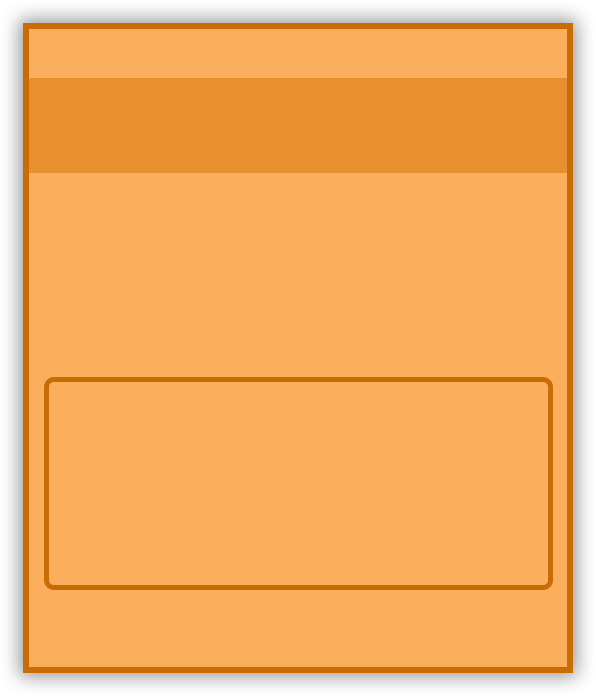
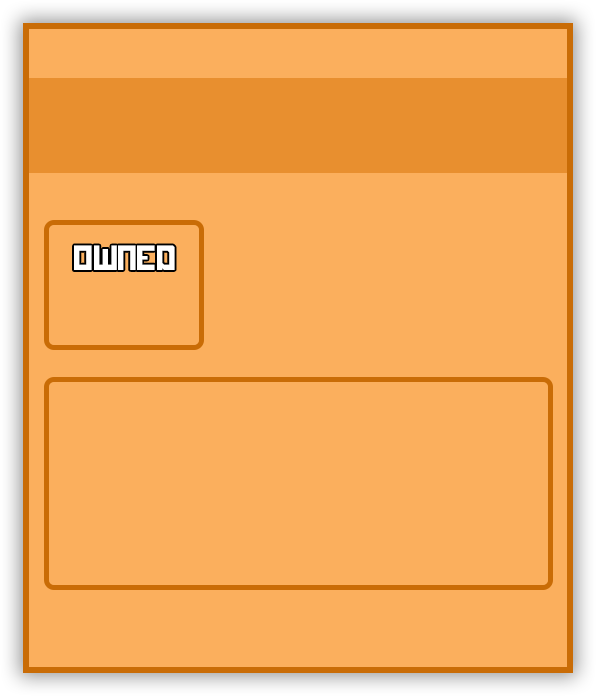
no message

Changed region(s): [[0.0604, 0.3017, 0.3624, 0.5129]]

diff --git a/core/src/com/nahroto/fruitdestroyer/huds/powerupoverlays/PowerupOverlay.java b/core/src/com/nahroto/fruitdestroyer/huds/powerupoverlays/PowerupOverlay.java
@@ -21,6 +21,9 @@ public class PowerupOverlay
     private Vector2 position;
 
     private Image background;
+    private Image title;
+    private Image checkedBox;
+    private Image uncheckedBox;
     private ImageButton exitButton;
     private ImageButton powerupButton;
     private Label costLabel;
@@ -34,6 +37,8 @@ public class PowerupOverlay
         actors = new Array<Actor>();
         position = new Vector2();
         background = new Image(gameScreenAtlas.findRegion("powerupDescBG"));
+        checkedBox = new Image(gameScreenAtlas.findRegion("checked"));
+        uncheckedBox = new Image(gameScreenAtlas.findRegion("unchecked"));
         exitButton = new ImageButton(new TextureRegionDrawable(gameScreenAtlas.findRegion("exitButton")));
         exitButton.addListener(new ClickListener()
         {
@@ -47,9 +52,12 @@ public class PowerupOverlay
             }
         });
         descriptionLabel = new Label(description, new Label.LabelStyle(new Font("fonts/trompus.otf", 30, Color.WHITE, Color.BLACK, 2, true).getFont(), Color.WHITE));
-        costLabel = new Label("Price: " + cost.toString() + " points.", new Label.LabelStyle(new Font("fonts/trompus.otf", 40, Color.WHITE, Color.BLACK, 2, true).getFont(), Color.YELLOW));
-
+        if (cost == 1)
+            costLabel = new Label("Price: " + cost.toString() + " point", new Label.LabelStyle(new Font("fonts/trompus.otf", 40, Color.WHITE, Color.BLACK, 2, true).getFont(), Color.YELLOW));
+        else
+            costLabel = new Label("Price: " + cost.toString() + " points", new Label.LabelStyle(new Font("fonts/trompus.otf", 40, Color.WHITE, Color.BLACK, 2, true).getFont(), Color.YELLOW));
         actors.add(background);
+        actors.add(uncheckedBox);
         actors.add(costLabel);
         actors.add(descriptionLabel);
         actors.add(costLabel);
@@ -69,8 +77,10 @@ public class PowerupOverlay
     {
         position.set(x, y);
         background.setPosition(position.x, position.y, align);
+        checkedBox.setPosition(background.getX() + 100, background.getY() + 360);
+        uncheckedBox.setPosition(background.getX() + 100, background.getY() + 360);
         powerupButton.setPosition(background.getX(Align.center), background.getY() + 415, align);
-        costLabel.setPosition(background.getX() + 60, background.getY() + 50);
+        costLabel.setPosition(background.getX() + 50, background.getY() + 50);
         descriptionLabel.setPosition(background.getX() + 60, background.getY() + 305, Align.topLeft);
         exitButton.setPosition(background.getX() + background.getWidth() - 32, background.getY() + background.getHeight() - 32, Align.center);
     }

diff --git a/core/src/com/nahroto/fruitdestroyer/huds/upgradeoverlays/UpgradeOverlay.java b/core/src/com/nahroto/fruitdestroyer/huds/upgradeoverlays/UpgradeOverlay.java
@@ -81,7 +81,10 @@ public abstract class UpgradeOverlay
         nextValueFont = new Font("fonts/trompus.otf", 35, Color.WHITE, Color.BLACK, 2, true);
         currentValueLabel = new Label("nan", new Label.LabelStyle(currentValueFont.getFont(), Color.WHITE));
         nextValueLabel = new Label("nan", new Label.LabelStyle(nextValueFont.getFont(), Color.WHITE));
-        costLabel = new Label("Price: " + upgradeCost.toString() + " points", new Label.LabelStyle(new Font("fonts/trompus.otf", 40, Color.WHITE, Color.BLACK, 2, true).getFont(), Color.YELLOW));
+        if (upgradeCost == 1)
+            costLabel = new Label("Price: " + upgradeCost.toString() + " point", new Label.LabelStyle(new Font("fonts/trompus.otf", 40, Color.WHITE, Color.BLACK, 2, true).getFont(), Color.YELLOW));
+        else
+            costLabel = new Label("Price: " + upgradeCost.toString() + " points", new Label.LabelStyle(new Font("fonts/trompus.otf", 40, Color.WHITE, Color.BLACK, 2, true).getFont(), Color.YELLOW));
         descriptionLabel = new Label(description, new Label.LabelStyle(new Font("fonts/trompus.otf", 30, Color.WHITE, Color.BLACK, 2, true).getFont(), Color.WHITE));
 
         actors.add(background);
